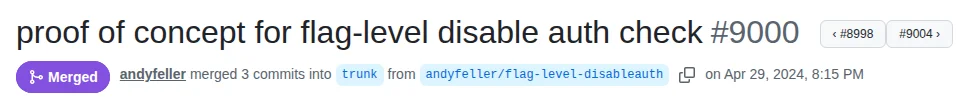
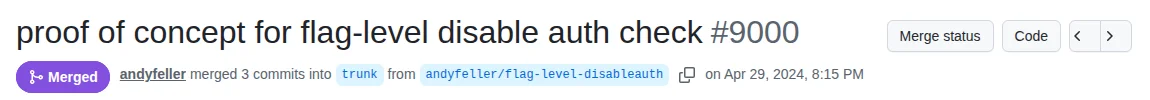
Previous / next PR as arrow buttons in the PR header
The buttons floated between the title and GitHub's header buttons, with
their own sizes and a gap between them. They are now a joined pair of
arrow buttons after Code, copying the Primer button classes of the
header's own buttons so they match in size and theme. The PR number
moved to the tooltip. Logged out, the header has no buttons, so the pair
sits next to the title instead.

diff --git a/src/pr-nav.js b/src/pr-nav.js
@@ -1,4 +1,4 @@
-// Previous / next PR buttons next to the PR title, plus [ and ] to use them.
+// Previous / next PR arrow buttons in the PR header, plus [ and ] to use them.
 // PR and issue numbers share one sequence, so neighbours are found by asking
 // /pull/K for each number: a PR answers 200, an issue (or a missing number)
 // redirects. Keeps the current tab, so Files changed goes to Files changed.
@@ -58,17 +58,59 @@ ghqol.register("prNav", () => {
     location.assign(pr.base + n + pr.tab);
   }
 
-  function button(pr, label, dir, promise) {
+  const CHEVRON = {
+    [-1]: "M9.78 12.78a.75.75 0 0 1-1.06 0L4.47 8.53a.75.75 0 0 1 0-1.06l4.25-4.25a.751.751 0 0 1 1.042.018.751.751 0 0 1 .018 1.042L6.06 8l3.72 3.72a.75.75 0 0 1 0 1.06Z",
+    1: "M6.22 3.22a.75.75 0 0 1 1.06 0l4.25 4.25a.75.75 0 0 1 0 1.06l-4.25 4.25a.751.751 0 0 1-1.042-.018.751.751 0 0 1-.018-1.042L9.94 8 6.22 4.28a.75.75 0 0 1 0-1.06Z",
+  };
+
+  // Signed in, the header's action buttons (Merge status, Code) are Primer
+  // React buttons with hashed class names; copy one so ours match. Logged
+  // out the action area is empty and hidden, so sit next to the title.
+  function slot() {
+    const actions = document.querySelector("[data-component='PageHeader'] [data-component='PH_Actions']");
+    const ref = actions?.querySelector("button[class*='ButtonBase'], a[class*='ButtonBase']");
+    if (ref && actions.offsetParent) return { parent: actions, ref };
+    const title = document.querySelector("[data-component='PageHeader'] [data-component='TitleArea'], .gh-header-show .gh-header-title");
+    return title && { parent: title, ref: null };
+  }
+
+  function button(pr, dir, promise, ref) {
     const a = document.createElement("a");
-    a.className = "btn btn-sm";
-    a.textContent = label;
+    if (ref) {
+      a.className = [...ref.classList].filter((c) => c.includes("ButtonBase")).join(" ");
+      for (const attr of ["data-size", "data-variant"]) a.setAttribute(attr, ref.getAttribute(attr) ?? "");
+    } else {
+      a.className = "btn btn-sm";
+    }
+    const name = dir < 0 ? "Previous PR" : "Next PR";
+    const key = dir < 0 ? "[" : "]";
+    a.setAttribute("aria-label", name);
     a.setAttribute("aria-disabled", "true");
-    a.title = dir < 0 ? "Previous PR  [" : "Next PR  ]";
+    a.title = `${name} (${key})`;
+    a.innerHTML = `<svg viewBox="0 0 16 16" width="16" height="16" fill="currentColor" aria-hidden="true"><path d="${CHEVRON[dir]}"></path></svg>`;
+    Object.assign(a.style, {
+      display: "inline-grid",
+      placeItems: "center",
+      padding: "0",
+      aspectRatio: "1",
+      opacity: "0.5",
+      pointerEvents: "none",
+      [dir < 0 ? "borderTopRightRadius" : "borderTopLeftRadius"]: "0",
+      [dir < 0 ? "borderBottomRightRadius" : "borderBottomLeftRadius"]: "0",
+      ...(dir > 0 && { marginLeft: "-1px" }),
+    });
+    if (!ref) a.style.height = "28px";
     promise.then((n) => {
-      if (n == null) return;
+      if (n == null) {
+        a.title = dir < 0 ? "No earlier PR" : "No later PR found";
+        return;
+      }
       a.href = pr.base + n + pr.tab;
-      a.textContent = dir < 0 ? `‹ #${n}` : `#${n} ›`;
+      a.title = `${name} #${n} (${key})`;
+      a.setAttribute("aria-label", `${name} #${n}`);
       a.removeAttribute("aria-disabled");
+      a.style.opacity = "";
+      a.style.pointerEvents = "";
     });
     return a;
   }
@@ -76,18 +118,18 @@ ghqol.register("prNav", () => {
   ghqol.onScan(() => {
     const pr = parse();
     const existing = document.querySelector(".ghqol-pr-nav");
-    if (existing && existing.dataset.pr === String(pr?.number)) return;
+    const target = pr && slot();
+    if (existing && existing.dataset.pr === String(pr?.number) && existing.parentElement === target?.parent) return;
     existing?.remove();
-    if (!pr) return;
-    const title = document.querySelector("[data-component='PageHeader'] [data-component='TitleArea'], .gh-header-show .gh-header-title");
-    if (!title) return;
+    if (!target) return;
     const { prev, next } = lookup(pr);
     const nav = document.createElement("span");
-    nav.className = "ghqol-pr-nav BtnGroup";
+    nav.className = "ghqol-pr-nav";
     nav.dataset.pr = pr.number;
-    Object.assign(nav.style, { marginLeft: "12px", alignSelf: "center", whiteSpace: "nowrap", flexShrink: "0" });
-    nav.append(button(pr, "‹ Prev", -1, prev), button(pr, "Next ›", 1, next));
-    title.append(nav);
+    Object.assign(nav.style, { display: "inline-flex", alignSelf: "center", flexShrink: "0" });
+    if (!target.ref) nav.style.marginLeft = "12px";
+    nav.append(button(pr, -1, prev, target.ref), button(pr, 1, next, target.ref));
+    target.parent.append(nav);
   });
 
   document.addEventListener(

diff --git a/docs/index.html b/docs/index.html
@@ -300,8 +300,8 @@
         <div class="text"><h3>Clickable file paths</h3><p><code>src/app.ts:42</code> in a comment links to the file and line, if the file exists.</p></div>
       </article>
       <article class="feature" tabindex="0" role="button">
-        <div class="shot wide"><img src="images/thumb/pr-nav.webp" data-full="images/full/pr-nav.webp" width="720" height="74" alt="PR title with buttons for the previous PR #8998 and the next PR #9004" loading="lazy"></div>
-        <div class="text"><h3>Previous / next PR</h3><p>Buttons by the PR title, or <kbd>[</kbd> <kbd>]</kbd>, go straight to the neighbouring PR. Issues are skipped.</p></div>
+        <div class="shot wide"><img src="images/thumb/pr-nav.webp" data-full="images/full/pr-nav.webp" width="720" height="63" alt="PR header with previous and next PR buttons joined after the Code button" loading="lazy"></div>
+        <div class="text"><h3>Previous / next PR</h3><p>Buttons in the PR header, or <kbd>[</kbd> <kbd>]</kbd>, go straight to the neighbouring PR. Issues are skipped.</p></div>
       </article>
       <article class="feature" tabindex="0" role="button">
         <div class="shot"><img src="images/thumb/sticky-blame.webp" data-full="images/full/sticky-blame.webp" width="720" height="315" alt="A file open in Blame view" loading="lazy"></div>

diff --git a/popup/popup.js b/popup/popup.js
@@ -8,7 +8,7 @@ const FEATURES = [
   ["linkifyPaths", "Clickable file paths", "<code>src/app.ts:42</code> in comments links to the file (only if it exists)."],
   ["stickyBlame", "Sticky blame view", "Once you switch a file to Blame, other files you open stay in Blame."],
   ["fileSizes", "File sizes", "Shows each file's size in the repo file list."],
-  ["prNav", "Previous / next PR", "Buttons by the PR title, or <kbd>[</kbd> <kbd>]</kbd>, jump to the neighbouring PR. Issues are skipped."],
+  ["prNav", "Previous / next PR", "Arrow buttons in the PR header, or <kbd>[</kbd> <kbd>]</kbd>, jump to the neighbouring PR. Issues are skipped."],
   ["shortcuts", "Extra shortcuts", "<kbd>g</kbd> then <kbd>r</kbd> releases, <kbd>t</kbd> tags, <kbd>b</kbd> branches, <kbd>h</kbd> commits, <kbd>o</kbd> settings."],
 ];
 

diff --git a/README.md b/README.md
@@ -18,7 +18,7 @@ Small Chrome extension (Manifest V3, no build step) with quality-of-life tweaks 
 | **Clickable file paths** | Inline code like `src/app.ts:42` in comments links to that file and line. It's only linked if the file exists, and on PRs the PR's branch is tried first. |
 | **Sticky blame view** | Switch a file to Blame and other files you open stay in Blame until you switch back to Code. |
 | **File sizes** | The repo file list shows each file's size next to its name, so you know before opening it. |
-| **Previous / next PR** | Buttons next to the PR title, or `[` and `]`, go to the previous or next PR without the PR list. Numbers that are issues are skipped, and you stay on the same tab (Files changed, Commits). |
+| **Previous / next PR** | Arrow buttons in the PR header, next to Code, or `[` and `]`, go to the previous or next PR without the PR list. Numbers that are issues are skipped, and you stay on the same tab (Files changed, Commits). |
 | **Extra shortcuts** | `g r` releases, `g t` tags, `g b` branches, `g h` commit history, `g o` settings. These fill gaps in GitHub's own `g` shortcuts. |
 
 ## Install
